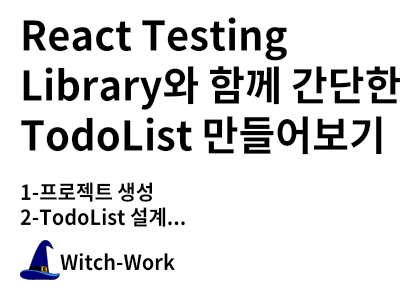
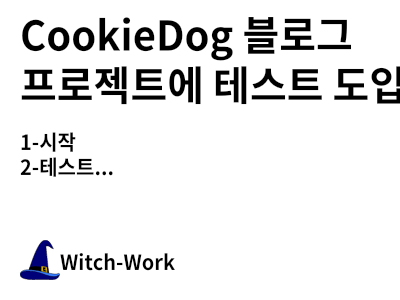
about 편집

Changed region(s): [[0.03, 0.06, 1.0, 0.36], [0.03, 0.39, 0.48, 0.78], [0.51, 0.39, 0.96, 0.54]]

diff --git a/src/pages/about/index.tsx b/src/pages/about/index.tsx
@@ -9,9 +9,9 @@ function AboutPage() {
         <h1 className={styles.marginBottom}>김성현(Kim Sung Hyun)</h1>
         <hr />
         <p>
-    프론트엔드 개발자입니다.
-    열정적인 사람들을 좇다가 개발자가 되었고 그들과 함께해 왔습니다.
-    앞으로도 그렇게 살고자 합니다.
+        프론트엔드 개발자입니다.
+        자신의 일을 사랑한다고 단 1초도 망설임없이 말할 수 있는 열정적인 사람들을 좇다가 개발자가 되었습니다. 
+        그리고 그들과 함께해 왔습니다. 앞으로도 그렇게 살고자 합니다.
         </p>
         <section>
           <h2>정보</h2>
@@ -36,7 +36,7 @@ function AboutPage() {
           <h2>프로젝트</h2>
           <ul>
             <li className={styles.noMarker}>
-              <h3 className={styles.marginy}>개인 블로그 제작(2023.05~2023.06)</h3>
+              <h3 className={styles.marginy}>개인 블로그 제작(2023.05~현재)</h3>
             </li>
             <li className={styles.noMarker}><hr /></li>
             <li className={styles.noMarker}>
@@ -71,9 +71,9 @@ function AboutPage() {
               </ul>
             </li>
           </ul>
-          <ul>
+          {/*<ul>
             <li className={styles.noMarker}>
-              <h3 className={styles.marginy}>밴드웨건 / 소프트웨어 마에스트로 13기(2022.07~2022.11)</h3>
+              <h3 className={styles.marginy}>CookieDog Blog(2023.07~현재)</h3>
             </li>
             <li className={styles.noMarker}><hr /></li>
             <li className={styles.noMarker}>
@@ -95,7 +95,7 @@ function AboutPage() {
                 </li>
               </ul>
             </li>
-          </ul>
+  </ul>*/}
           <ul>
             <li className={styles.noMarker}>
               <h3 className={styles.marginy}>터미널 텍스트 에디터 제작(2021.04~2021.06)</h3>
@@ -259,7 +259,12 @@ function AboutPage() {
         2022.07 ~ 2022.11
             </li>
             <li>
-        브로콜리 소마저 팀 팀장/프론트엔드 개발 담당
+        브로콜리 소마저 팀 팀장, 사회인 밴드 플랫폼 <a href='https://github.com/swm-broccoli/bandwagon-frontend-revise'>밴드웨건</a> 프론트엔드 개발 담당
+            </li>
+            <li>
+              <a href='https://witch.work/carousel-1/'>캐로셀 컴포넌트 제작기, </a>
+              <a href='https://witch.work/front-bug-1/'>서버 통신 경쟁상태 해결 </a>
+              등의 블로그 포스팅
             </li>
           </ul>
         </section>

diff --git a/posts/dev/react-test-4/index.md b/posts/dev/react-test-4/index.md
@@ -1,156 +1,33 @@
 ---
-title: React Testing Library와 함께 간단한 TodoList 만들어보기
-date: "2023-03-07T00:00:00Z"
+title: CookieDog 블로그 프로젝트에 테스트 도입하기
+date: "2023-07-14T00:00:00Z"
 description: "프론트에 테스트 도입을 위한 공부, 간단한 페이지 만들기 2"
-tags: ["javascript"]
+tags: ["test", "react"]
 ---
 
-인프런의 '따라하며 배우는 리액트 테스트'를 참고하였습니다. 페이지는 새롭게 설계하였습니다.
+# 1. 시작
 
-아주 간단한 TodoList를 만들고 테스트를 작성해 보자.
+이전에 [테스트 기초 세팅](https://witch.work/posts/dev/react-test-1), [테스트 라이브러리의 기초적인 문법](https://witch.work/posts/dev/react-test-2), [테스트와 함께 구현하는 간단한 카운터](https://witch.work/posts/dev/react-test-3)글을 통해서 테스팅 라이브러리를 훑어보았다.
 
-# 1. 프로젝트 생성
+오랜 시간이 지나 `CookieDog`이라는 음악 관련 블로그 프로젝트를 하게 되었다. MVP라서 기능이 많지 않고 내가 기획한 프로젝트는 아니지만 자유도가 매우 높아서 딱 테스트를 도입해 볼 만한 프로젝트라 테스트를 도입해 보고 그 일대기를 여기 적는다.
 
-create-react-app으로 프로젝트를 생성한다. typescript를 사용해볼 것이다.
+깔끔히 정리된 기술적인 글보다는 내 생각과 삽질의 경로를 설명하는 글이 되도록 노력하며 적는다.
 
-```bash
-npx create-react-app todolist-with-test --template typescript
-```
+# 2. 테스트
 
-이제 필요한 라이브러리를 깔아 주자. testing library와 같은 경우 cra로 어플리케이션 생성시 기본적으로 깔려 있다. eslint만 깔아주자.
-
-```bash
-npm install eslint-plugin-testing-library eslint-plugin-jest-dom --save-dev
-```
-
-CRA로 앱을 만들 때 자동으로 설정된 eslint config가 package.json에 있다. 이를 삭제하자.
-
-```json
-// 이 부분 삭제
-"eslintConfig": {
-  "extends": [
-    "react-app",
-    "react-app/jest"
-  ]
-},
-```
-
-그리고 루트에 `.eslintrc.json` 파일을 만들고 다음과 같이 작성한다. react, jest, testing-library, jest-dom에 대한 eslint 설정을 해주는 것이다.
-
-```json
-{
-  "plugins": ["testing-library", "jest-dom"],
-  "extends": [
-    "react-app",
-    "react-app/jest",
-    "plugin:testing-library/react",
-    "plugin:jest-dom/recommended"
-  ]
-}
-```
-
-그리고 페이지가 약 3개가 될 것으로 예상되므로 react router를 설치한다.
-
-```bash
-npm install react-router-dom
-```
-
-이 정도로 하고 당장 todo list를 만들어보자.
-
-# 2. TodoList 설계
-
-설계는 단순하다. 로그인 페이지를 만들고 로그인을 하면 todo list 페이지로 넘어가는 것이다. 이때 로그인이 성공할 시 해당 유저에 대해 저장된 todolist 항목들이 불러와진다.
-
-todo list 페이지는 todo를 추가하고 삭제할 수 있어야 한다. 
-
-우리는 로그인 페이지, todo list 페이지, 페이지를 찾지 못했을 때 이동하는 만들 것이다.
-
-먼저 src/pages 폴더를 만들고 LoginPage, TodoListPage, NotFoundPage폴더, 그리고 각각에 속한 index.tsx를 만들어준다.
-
-간단하게 각 페이지에는 각 페이지의 이름을 출력하는 컴포넌트를 만들어준다.
-
-```tsx
-// src/pages/LoginPage/index.tsx
-function LoginPage() {
-  return <div>로그인 페이지입니다.</div>;
-}
-
-export default LoginPage;
-```
-
-```tsx
-// src/pages/TodoListPage/index.tsx
-function TodoListPage() {
-  return <div>to do list 페이지입니다.</div>;
-}
-
-export default TodoListPage;
-```
-
-```tsx
-// src/pages/NotFoundPage/index.tsx
-function NotFoundPage() {
-  return <div>페이지 이동을 실패했을 때 오는 페이지입니다.</div>;
-}
-
-export default NotFoundPage;
-```
-
-이제 각 페이지들을 라우터에 추가해 줄 것이다. App.tsx와 App.css 그리고 App.test.tsx는 지우고 index.tsx를 다음과 같이 수정한다. react-router는 어째 늘 문법이 조금씩 바뀌는 것 같다. 다시 공식 문서를 찾아서 그대로 했다.
-
-```tsx
-import React from "react";
-import ReactDOM from "react-dom/client";
-import "./index.css";
-import reportWebVitals from "./reportWebVitals";
-import { createBrowserRouter, RouterProvider } from "react-router-dom";
-import LoginPage from "./pages/LoginPage";
-import NotFoundPage from "./pages/NotFoundPage";
-import TodoListPage from "./pages/TodoListPage";
-
-const router = createBrowserRouter([
-  { path: "/", element: <TodoListPage /> },
-  { path: "/login", element: <LoginPage /> },
-  { path: "*", element: <NotFoundPage /> },
-]);
-
-const root = ReactDOM.createRoot(
-  document.getElementById("root") as HTMLElement
-);
-
-root.render(
-  <React.StrictMode>
-    <RouterProvider router={router} />
-  </React.StrictMode>
-);
-
-// If you want to start measuring performance in your app, pass a function
-// to log results (for example: reportWebVitals(console.log))
-// or send to an analytics endpoint. Learn more: https://bit.ly/CRA-vitals
-reportWebVitals();
-```
-
-# 3. TodoList 페이지
-
-이제 볼품없게나마 todo list 페이지를 만들어보자.
+[테스트는 내가 작성한 코드가 의도한 대로 동작하는지 검사하는 것](https://www.youtube.com/watch?v=MN7Pw4mK6lU)
 
 
 
-
-# 1. Mock Service Worker
-
-Mock Service Worker는 서버와의 통신을 모킹해주는 라이브러리다. 이를 사용하면 서버가 없어도 테스트를 할 수 있다.
-
-이는 브라우저에 서비스 워커를 등록하여 서버에 요청을 보낼 때 외부로 나가는 요청을 가로채고, 가로챈 요청에 대한 응답을 Mock Service Worker의 클라이언트 사이드에서 만들어주는 방식으로 동작한다. 
-
-이 응답은 핸들러에서 처리하며 이렇게 만든 응답은 브라우저로 다시 보내진다.
-
-이때 브라우저 대신 서버를 생성한 후 Node로 서버를 직접 만들어 줄 수도 있다.
 
 # 참고
+
+https://www.daleseo.com/react-testing-library/
 
 https://www.daleseo.com/mock-service-worker/
 
 https://tech.kakao.com/2021/09/29/mocking-fe/
 
 https://reactrouter.com/en/main/start/tutorial
+
+https://www.youtube.com/watch?v=MN7Pw4mK6lU
